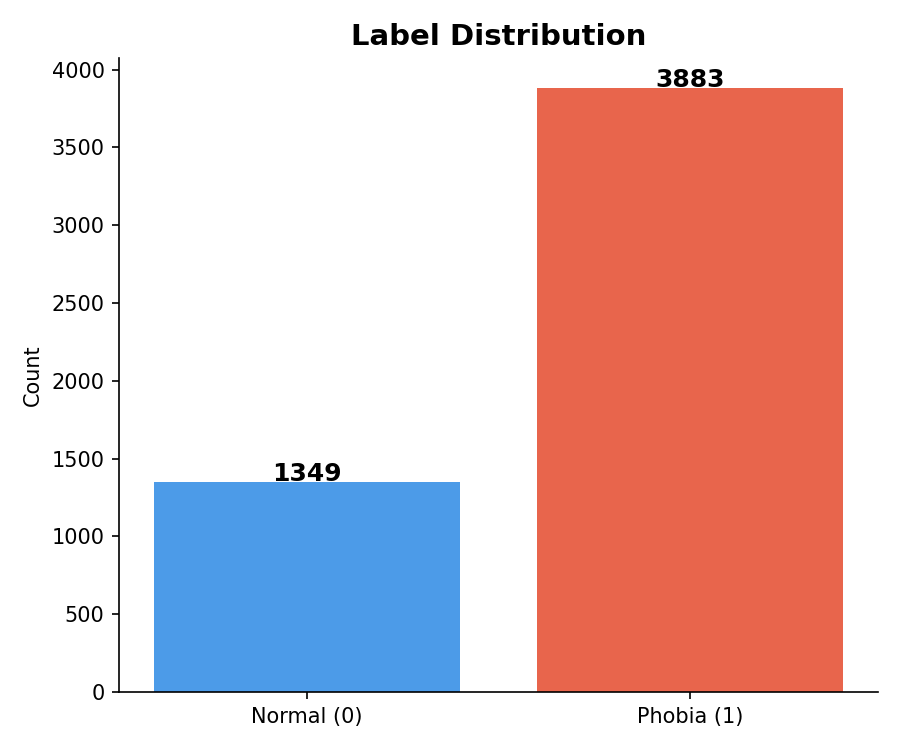
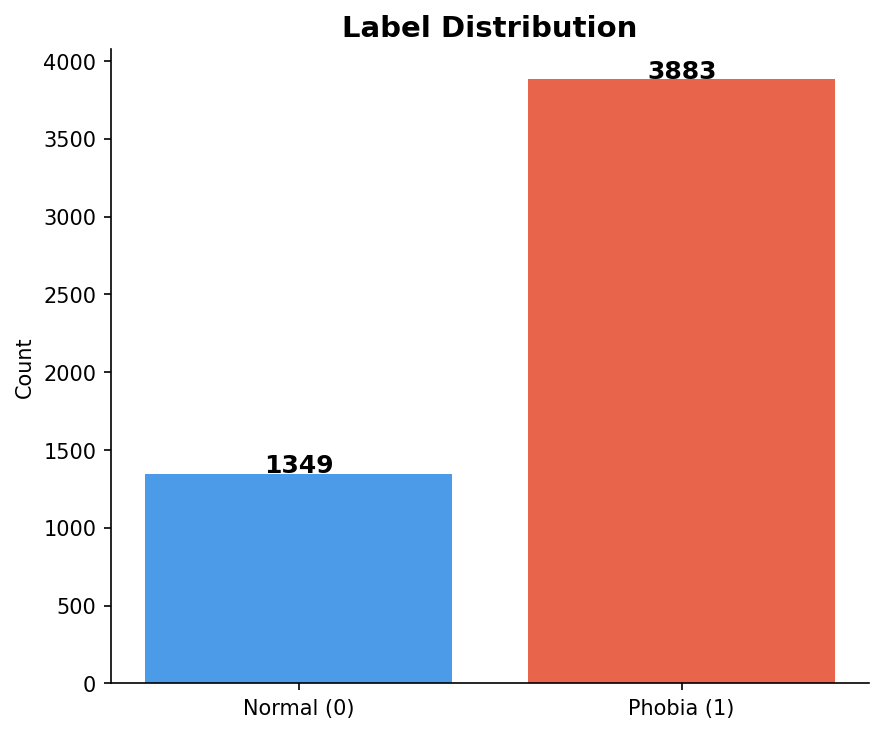
Update README title and refactor visualization functions for clarity

Changed region(s): [[0.0, 0.06, 0.9774, 0.9905], [0.3665, 0.0, 0.733, 0.06]]

diff --git a/src/generate_visualizations.py b/src/generate_visualizations.py
@@ -11,23 +11,26 @@ from sklearn.metrics import roc_curve, auc, confusion_matrix, precision_recall_c
 from PIL import Image
 from pathlib import Path
 
-sys.path.insert(0, os.path.dirname(os.path.abspath(__file__)))
+ROOT = Path("/Users/aidancolvin/Medical-Image-Classification-PyTorch")
+sys.path.insert(0, str(ROOT))
+
 from main import build_resnet50, CONFIG, get_transforms
 
-OUTPUT_DIR = os.path.join("data", "submission_visualizations")
-os.makedirs(OUTPUT_DIR, exist_ok=True)
+CSV_PATH  = ROOT / "data" / "train" / "train_label.csv"
+IMG_ROOT  = ROOT / "data" / "train"
+OUTPUT_DIR = ROOT / "data" / "submission_visualizations"
+OUTPUT_DIR.mkdir(parents=True, exist_ok=True)
 print(f"Output folder ready: {OUTPUT_DIR}")
+print(f"CSV: {CSV_PATH}")
+print(f"Images: {IMG_ROOT}")
 
 class ChestXrayDataset(Dataset):
-    """Loads images from train/0/ and train/1/ subdirectories."""
     def __init__(self, df, image_root, transform=None):
         self.df = df.reset_index(drop=True)
         self.image_root = Path(image_root)
         self.transform = transform
-
     def __len__(self):
         return len(self.df)
-
     def __getitem__(self, idx):
         row = self.df.iloc[idx]
         label = int(row["Label"])
@@ -37,22 +40,19 @@ class ChestXrayDataset(Dataset):
             img = self.transform(img)
         return img, label, fname
 
-def get_label_counts(csv_path):
-    df = pd.read_csv(csv_path)
-    return int((df["Label"] == 0).sum()), int((df["Label"] == 1).sum())
+def get_label_counts():
+    df = pd.read_csv(CSV_PATH)
+    return int((df["Label"]==0).sum()), int((df["Label"]==1).sum())
 
-def load_splits(csv_path, image_root, val_frac=0.2):
-    df = pd.read_csv(csv_path)
+def load_splits(val_frac=0.2):
+    df = pd.read_csv(CSV_PATH)
     train_tf, val_tf = get_transforms()
-    val_size = int(len(df) * val_frac)
+    val_size   = int(len(df) * val_frac)
     train_size = len(df) - val_size
-    g = torch.Generator().manual_seed(42)
     train_df = df.iloc[:train_size].reset_index(drop=True)
     val_df   = df.iloc[train_size:].reset_index(drop=True)
-    return (
-        ChestXrayDataset(train_df, image_root, transform=train_tf),
-        ChestXrayDataset(val_df,   image_root, transform=val_tf),
-    )
+    return (ChestXrayDataset(train_df, IMG_ROOT, transform=train_tf),
+            ChestXrayDataset(val_df,   IMG_ROOT, transform=val_tf))
 
 def train_one_epoch(model, loader, optimizer, criterion, device):
     model.train()
@@ -69,7 +69,7 @@ def train_one_epoch(model, loader, optimizer, criterion, device):
         preds = (torch.sigmoid(out) > 0.5).float()
         correct += (preds == labels).sum().item()
         total += imgs.size(0)
-    return total_loss / total, correct / total
+    return total_loss/total, correct/total
 
 def evaluate(model, loader, criterion, device):
     model.eval()
@@ -94,15 +94,13 @@ def evaluate(model, loader, criterion, device):
 def run_training(model, train_loader, val_loader, epochs, device):
     criterion = nn.BCEWithLogitsLoss()
     optimizer = torch.optim.Adam(model.parameters(), lr=1e-4)
-    history = {"train_loss": [], "val_loss": [], "train_acc": [], "val_acc": []}
+    history = {"train_loss":[], "val_loss":[], "train_acc":[], "val_acc":[]}
     for epoch in range(epochs):
         tl, ta = train_one_epoch(model, train_loader, optimizer, criterion, device)
         vl, va, _, _, _ = evaluate(model, val_loader, criterion, device)
-        history["train_loss"].append(tl)
-        history["val_loss"].append(vl)
-        history["train_acc"].append(ta)
-        history["val_acc"].append(va)
-        print(f"Epoch {epoch+1}/{epochs} | Train Loss: {tl:.4f} Acc: {ta:.4f} | Val Loss: {vl:.4f} Acc: {va:.4f}")
+        history["train_loss"].append(tl); history["val_loss"].append(vl)
+        history["train_acc"].append(ta);  history["val_acc"].append(va)
+        print(f"Epoch {epoch+1}/{epochs} | Train Loss:{tl:.4f} Acc:{ta:.4f} | Val Loss:{vl:.4f} Acc:{va:.4f}")
     return history, model
 
 class GradCAM:
@@ -112,7 +110,6 @@ class GradCAM:
         self.activations = None
         model.layer4[-1].register_forward_hook(lambda m,i,o: setattr(self,'activations',o.detach()))
         model.layer4[-1].register_full_backward_hook(lambda m,i,o: setattr(self,'gradients',o[0].detach()))
-
     def generate(self, img_tensor):
         self.model.eval()
         t = img_tensor.clone().requires_grad_(True)
@@ -122,147 +119,117 @@ class GradCAM:
         cam = torch.relu(cam).cpu().numpy()
         return (cam - cam.min()) / (cam.max() - cam.min() + 1e-8)
 
-def save_label_distribution(normal, phobia):
+def save(name): 
+    path = OUTPUT_DIR / name
+    plt.savefig(path, dpi=150, bbox_inches='tight')
+    plt.close()
+    print(f"Saved: {path}")
+
+def plot_label_distribution(normal, phobia):
     fig, ax = plt.subplots(figsize=(6,5))
     bars = ax.bar(["Normal (0)","Phobia (1)"], [normal,phobia], color=["#4C9BE8","#E8654C"])
     for bar, count in zip(bars,[normal,phobia]):
         ax.text(bar.get_x()+bar.get_width()/2, bar.get_height()+5, str(count), ha="center", fontsize=12, fontweight="bold")
     ax.set_title("Label Distribution", fontsize=14, fontweight="bold")
-    ax.set_ylabel("Count")
-    ax.spines[["top","right"]].set_visible(False)
-    plt.tight_layout()
-    path = os.path.join(OUTPUT_DIR, "label_distribution.png")
-    plt.savefig(path, dpi=150); plt.close()
-    print(f"Saved: {path}")
+    ax.set_ylabel("Count"); ax.spines[["top","right"]].set_visible(False)
+    plt.tight_layout(); save("label_distribution.png")
 
-def save_training_curves(history):
+def plot_training_curves(history):
     epochs = range(1, len(history["train_loss"])+1)
     fig, (ax1,ax2) = plt.subplots(1,2,figsize=(12,5))
     ax1.plot(epochs, history["train_loss"], label="Train", color="#4C9BE8", linewidth=2)
     ax1.plot(epochs, history["val_loss"],   label="Val",   color="#E8654C", linewidth=2, linestyle="--")
-    ax1.set_title("Loss over Epochs", fontsize=13, fontweight="bold")
-    ax1.set_xlabel("Epoch"); ax1.set_ylabel("BCE Loss"); ax1.legend()
-    ax1.spines[["top","right"]].set_visible(False)
+    ax1.set_title("Loss over Epochs", fontsize=13, fontweight="bold"); ax1.set_xlabel("Epoch"); ax1.set_ylabel("BCE Loss"); ax1.legend(); ax1.spines[["top","right"]].set_visible(False)
     ax2.plot(epochs, history["train_acc"], label="Train", color="#4C9BE8", linewidth=2)
     ax2.plot(epochs, history["val_acc"],   label="Val",   color="#E8654C", linewidth=2, linestyle="--")
-    ax2.set_title("Accuracy over Epochs", fontsize=13, fontweight="bold")
-    ax2.set_xlabel("Epoch"); ax2.set_ylabel("Accuracy"); ax2.set_ylim(0,1.05); ax2.legend()
-    ax2.spines[["top","right"]].set_visible(False)
-    plt.tight_layout()
-    path = os.path.join(OUTPUT_DIR, "training_curves.png")
-    plt.savefig(path, dpi=150); plt.close()
-    print(f"Saved: {path}")
+    ax2.set_title("Accuracy over Epochs", fontsize=13, fontweight="bold"); ax2.set_xlabel("Epoch"); ax2.set_ylabel("Accuracy"); ax2.set_ylim(0,1.05); ax2.legend(); ax2.spines[["top","right"]].set_visible(False)
+    plt.tight_layout(); save("training_curves.png")
 
-def save_roc_curve(y_true, y_probs):
+def plot_roc(y_true, y_probs):
     fpr, tpr, _ = roc_curve(y_true, y_probs)
     roc_auc = auc(fpr, tpr)
     fig, ax = plt.subplots(figsize=(6,6))
     ax.plot(fpr, tpr, color="#4C9BE8", linewidth=2.5, label=f"AUC = {roc_auc:.3f}")
     ax.plot([0,1],[0,1], color="gray", linestyle="--")
-    ax.set_title("ROC Curve", fontsize=14, fontweight="bold")
-    ax.set_xlabel("False Positive Rate"); ax.set_ylabel("True Positive Rate")
-    ax.legend(loc="lower right", fontsize=12)
-    ax.spines[["top","right"]].set_visible(False)
-    plt.tight_layout()
-    path = os.path.join(OUTPUT_DIR, "roc_curve.png")
-    plt.savefig(path, dpi=150); plt.close()
-    print(f"Saved: {path}  (AUC={roc_auc:.3f})")
+    ax.set_title("ROC Curve", fontsize=14, fontweight="bold"); ax.set_xlabel("False Positive Rate"); ax.set_ylabel("True Positive Rate")
+    ax.legend(loc="lower right", fontsize=12); ax.spines[["top","right"]].set_visible(False)
+    plt.tight_layout(); save("roc_curve.png")
 
-def save_precision_recall(y_true, y_probs):
+def plot_pr(y_true, y_probs):
     precision, recall, _ = precision_recall_curve(y_true, y_probs)
     pr_auc = auc(recall, precision)
     fig, ax = plt.subplots(figsize=(6,6))
     ax.plot(recall, precision, color="#6DBE6D", linewidth=2.5, label=f"AP = {pr_auc:.3f}")
-    ax.set_title("Precision-Recall Curve", fontsize=14, fontweight="bold")
-    ax.set_xlabel("Recall"); ax.set_ylabel("Precision")
-    ax.legend(loc="upper right", fontsize=12); ax.set_xlim([0,1]); ax.set_ylim([0,1.05])
-    ax.spines[["top","right"]].set_visible(False)
-    plt.tight_layout()
-    path = os.path.join(OUTPUT_DIR, "precision_recall_curve.png")
-    plt.savefig(path, dpi=150); plt.close()
-    print(f"Saved: {path}  (AP={pr_auc:.3f})")
+    ax.set_title("Precision-Recall Curve", fontsize=14, fontweight="bold"); ax.set_xlabel("Recall"); ax.set_ylabel("Precision")
+    ax.legend(loc="upper right", fontsize=12); ax.set_xlim([0,1]); ax.set_ylim([0,1.05]); ax.spines[["top","right"]].set_visible(False)
+    plt.tight_layout(); save("precision_recall_curve.png")
 
-def save_confusion_matrix(y_true, y_probs):
+def plot_confusion(y_true, y_probs):
     y_preds = (y_probs > 0.5).astype(int)
     cm = confusion_matrix(y_true, y_preds)
     fig, ax = plt.subplots(figsize=(5,5))
-    im = ax.imshow(cm, interpolation="nearest", cmap="Blues")
-    plt.colorbar(im, ax=ax)
+    im = ax.imshow(cm, interpolation="nearest", cmap="Blues"); plt.colorbar(im, ax=ax)
     ax.set_xticks([0,1]); ax.set_xticklabels(["Normal","Phobia"], fontsize=12)
     ax.set_yticks([0,1]); ax.set_yticklabels(["Normal","Phobia"], fontsize=12)
-    thresh = cm.max() / 2.0
+    thresh = cm.max()/2.0
     for i in range(2):
         for j in range(2):
-            ax.text(j, i, str(cm[i,j]), ha="center", va="center",
-                    color="white" if cm[i,j] > thresh else "black", fontsize=14)
-    ax.set_title("Confusion Matrix", fontsize=14, fontweight="bold")
-    ax.set_ylabel("True Label"); ax.set_xlabel("Predicted Label")
-    plt.tight_layout()
-    path = os.path.join(OUTPUT_DIR, "confusion_matrix.png")
-    plt.savefig(path, dpi=150); plt.close()
-    print(f"Saved: {path}")
+            ax.text(j, i, str(cm[i,j]), ha="center", va="center", color="white" if cm[i,j]>thresh else "black", fontsize=14)
+    ax.set_title("Confusion Matrix", fontsize=14, fontweight="bold"); ax.set_ylabel("True Label"); ax.set_xlabel("Predicted Label")
+    plt.tight_layout(); save("confusion_matrix.png")
 
-def save_sample_predictions(y_probs, y_true, fnames, image_root, n=8):
+def plot_samples(y_probs, y_true, fnames, n=8):
     y_preds = (y_probs > 0.5).astype(int)
     correct_idx = np.where(y_preds == y_true)[0][:n//2]
     wrong_idx   = np.where(y_preds != y_true)[0][:n//2]
     fig, axes = plt.subplots(2, n//2, figsize=(14,6))
-    fig.suptitle("Sample Predictions  |  Green = Correct   Red = Incorrect", fontsize=13, fontweight="bold")
+    fig.suptitle("Sample Predictions  |  Green=Correct  Red=Incorrect", fontsize=13, fontweight="bold")
     labels_map = {0:"Normal", 1:"Phobia"}
-    root = Path(image_root)
     for row, (group, title) in enumerate([(correct_idx,"Correct"),(wrong_idx,"Incorrect")]):
         for col, idx in enumerate(group):
             ax = axes[row][col]
             try:
                 label = int(y_true[idx])
-                ax.imshow(Image.open(root / str(label) / fnames[idx]).convert("RGB"))
+                ax.imshow(Image.open(IMG_ROOT / str(label) / fnames[idx]).convert("RGB"))
             except Exception:
-                ax.text(0.5, 0.5, "N/A", ha="center", va="center")
-            color = "#2ECC71" if row == 0 else "#E74C3C"
-            ax.set_title(f"True: {labels_map[int(y_true[idx])]}\nPred: {labels_map[int(y_preds[idx])]}", fontsize=8, color=color)
+                ax.text(0.5,0.5,"N/A",ha="center",va="center")
+            color = "#2ECC71" if row==0 else "#E74C3C"
+            ax.set_title(f"True:{labels_map[int(y_true[idx])]}\nPred:{labels_map[int(y_preds[idx])]}", fontsize=8, color=color)
             ax.axis("off")
         axes[row][0].set_ylabel(title, fontsize=11, fontweight="bold")
-    plt.tight_layout()
-    path = os.path.join(OUTPUT_DIR, "sample_predictions.png")
-    plt.savefig(path, dpi=150); plt.close()
-    print(f"Saved: {path}")
+    plt.tight_layout(); save("sample_predictions.png")
 
-def save_gradcam(model, y_true, fnames, image_root, device, n=4):
+def plot_gradcam(model, y_true, fnames, device, n=4):
     cam_extractor = GradCAM(model)
     _, val_tf = get_transforms()
     fig, axes = plt.subplots(2, n, figsize=(14,6))
     plt.suptitle("Grad-CAM — Model Attention on Chest X-Rays", fontsize=13, fontweight="bold")
-    root = Path(image_root)
     plotted = 0
     for idx in range(len(fnames)):
-        if plotted >= n:
-            break
+        if plotted >= n: break
         try:
             label = int(y_true[idx])
-            raw_img = Image.open(root / str(label) / fnames[idx]).convert("RGB")
+            raw_img = Image.open(IMG_ROOT / str(label) / fnames[idx]).convert("RGB")
         except Exception:
             continue
         tensor = val_tf(raw_img).unsqueeze(0).to(device)
         heatmap = cam_extractor.generate(tensor)
-        heatmap_r = np.array(Image.fromarray((heatmap*255).astype(np.uint8)).resize(raw_img.size, Image.BILINEAR)) / 255.0
+        heatmap_r = np.array(Image.fromarray((heatmap*255).astype(np.uint8)).resize(raw_img.size, Image.BILINEAR))/255.0
         axes[0][plotted].imshow(raw_img); axes[0][plotted].set_title(f"Original\n({'Phobia' if label==1 else 'Normal'})", fontsize=9); axes[0][plotted].axis("off")
         axes[1][plotted].imshow(raw_img); axes[1][plotted].imshow(heatmap_r, cmap="jet", alpha=0.45); axes[1][plotted].set_title("Grad-CAM", fontsize=9); axes[1][plotted].axis("off")
         plotted += 1
-    plt.tight_layout()
-    path = os.path.join(OUTPUT_DIR, "gradcam.png")
-    plt.savefig(path, dpi=150); plt.close()
-    print(f"Saved: {path}")
+    plt.tight_layout(); save("gradcam.png")
 
 def main():
     device = "mps"
-    epochs = CONFIG.get("epochs", 5)
+    epochs = CONFIG.get("epochs", 10)
     batch_size = CONFIG.get("batch_size", 32)
-    print(f"Device: {device} | Epochs: {epochs} | Batch: {batch_size}\n")
+    print(f"\nDevice: {device} | Epochs: {epochs} | Batch: {batch_size}\n")
 
-    normal_count, phobia_count = get_label_counts(os.path.join(os.path.dirname(os.path.abspath(__file__)), "train", "train_label.csv"))
-    save_label_distribution(normal_count, phobia_count)
+    normal_count, phobia_count = get_label_counts()
+    plot_label_distribution(normal_count, phobia_count)
 
-    train_ds, val_ds = load_splits(os.path.join(os.path.dirname(os.path.abspath(__file__)), "train", "train_label.csv"), os.path.join(os.path.dirname(os.path.abspath(__file__)), "train"))
+    train_ds, val_ds = load_splits()
     train_loader = DataLoader(train_ds, batch_size=batch_size, shuffle=True,  num_workers=0)
     val_loader   = DataLoader(val_ds,   batch_size=batch_size, shuffle=False, num_workers=0)
 
@@ -273,14 +240,14 @@ def main():
     criterion = nn.BCEWithLogitsLoss()
     _, _, y_true, y_probs, fnames = evaluate(model, val_loader, criterion, device)
 
-    print("\nGenerating visualizations...\n")
-    save_training_curves(history)
-    save_roc_curve(y_true, y_probs)
-    save_precision_recall(y_true, y_probs)
-    save_confusion_matrix(y_true, y_probs)
-    save_sample_predictions(y_probs, y_true, fnames, "train")
-    save_gradcam(model, y_true, fnames, "train", device)
-    print(f"\nAll done! Visualizations in: {OUTPUT_DIR}/")
+    print("\nGenerating all visualizations...\n")
+    plot_training_curves(history)
+    plot_roc(y_true, y_probs)
+    plot_pr(y_true, y_probs)
+    plot_confusion(y_true, y_probs)
+    plot_samples(y_probs, y_true, fnames)
+    plot_gradcam(model, y_true, fnames, device)
+    print(f"\nAll done! Check: {OUTPUT_DIR}")
 
 if __name__ == "__main__":
     main()

diff --git a/README.md b/README.md
@@ -1,4 +1,4 @@
-# Chest X-Ray Phobia Classification
+# Medical-Image-Classification-PyTorch
 
 A binary image classification pipeline for detecting **phobia** (vs. normal) from chest X-ray images using a fine-tuned ResNet-50 in PyTorch.
 
